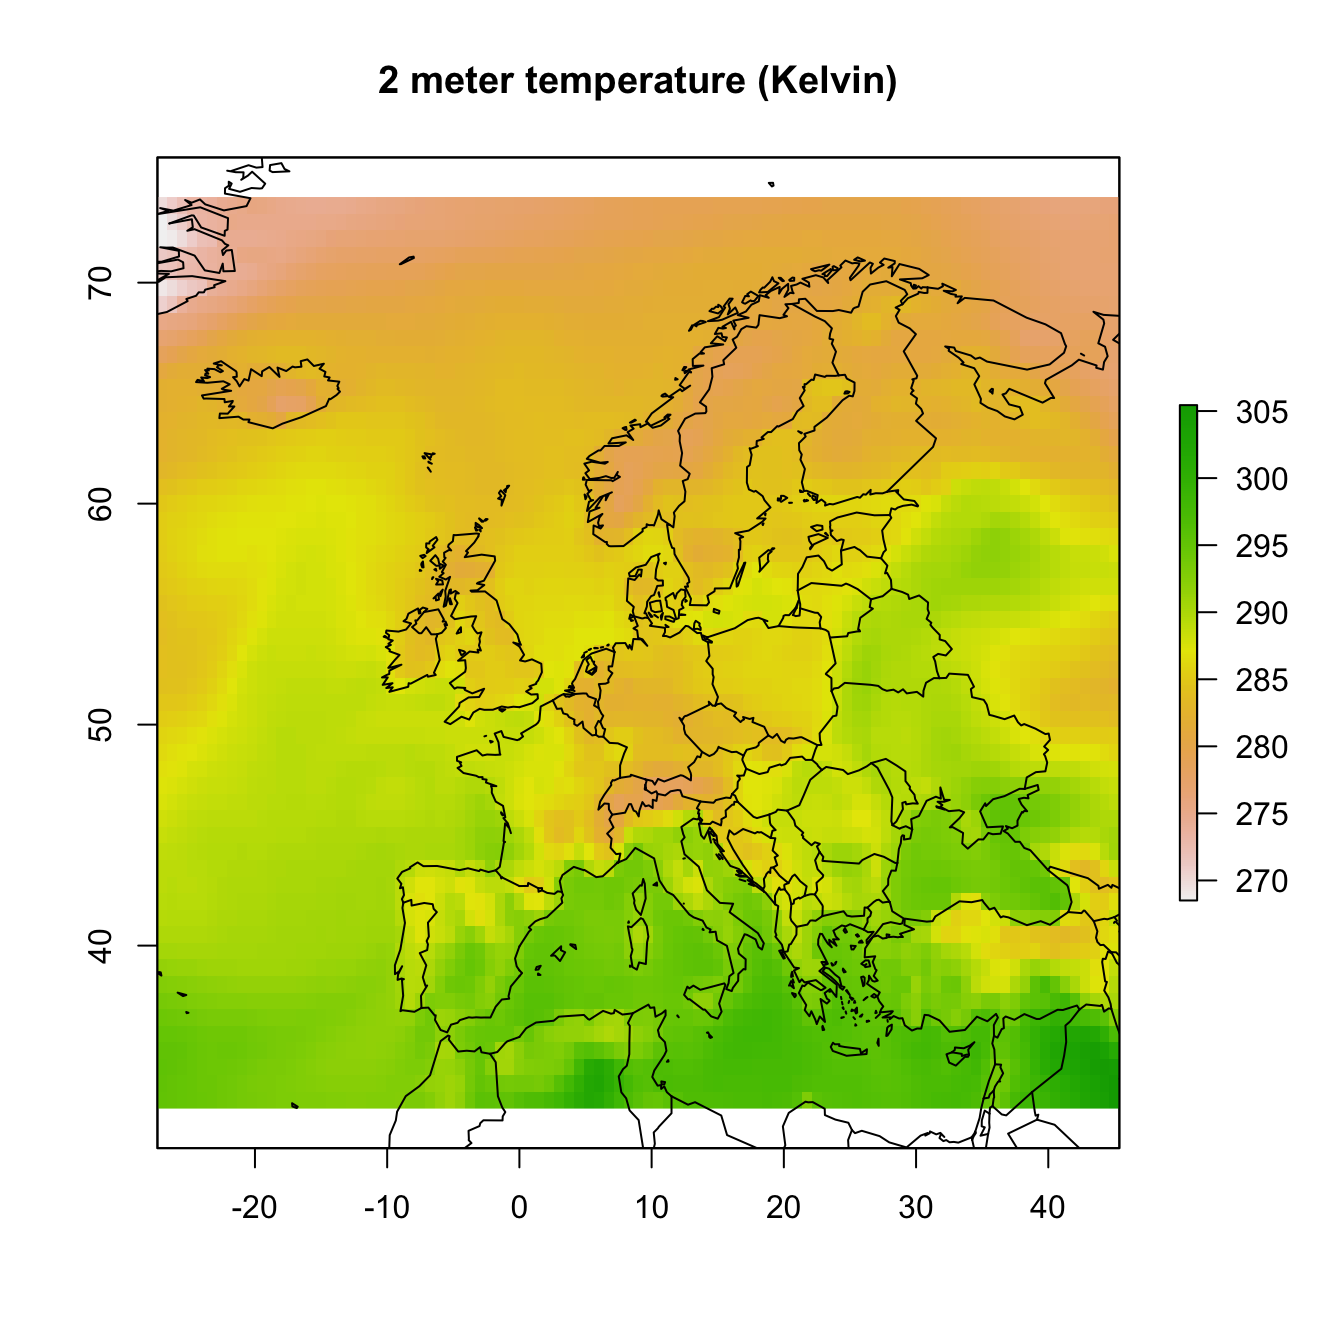
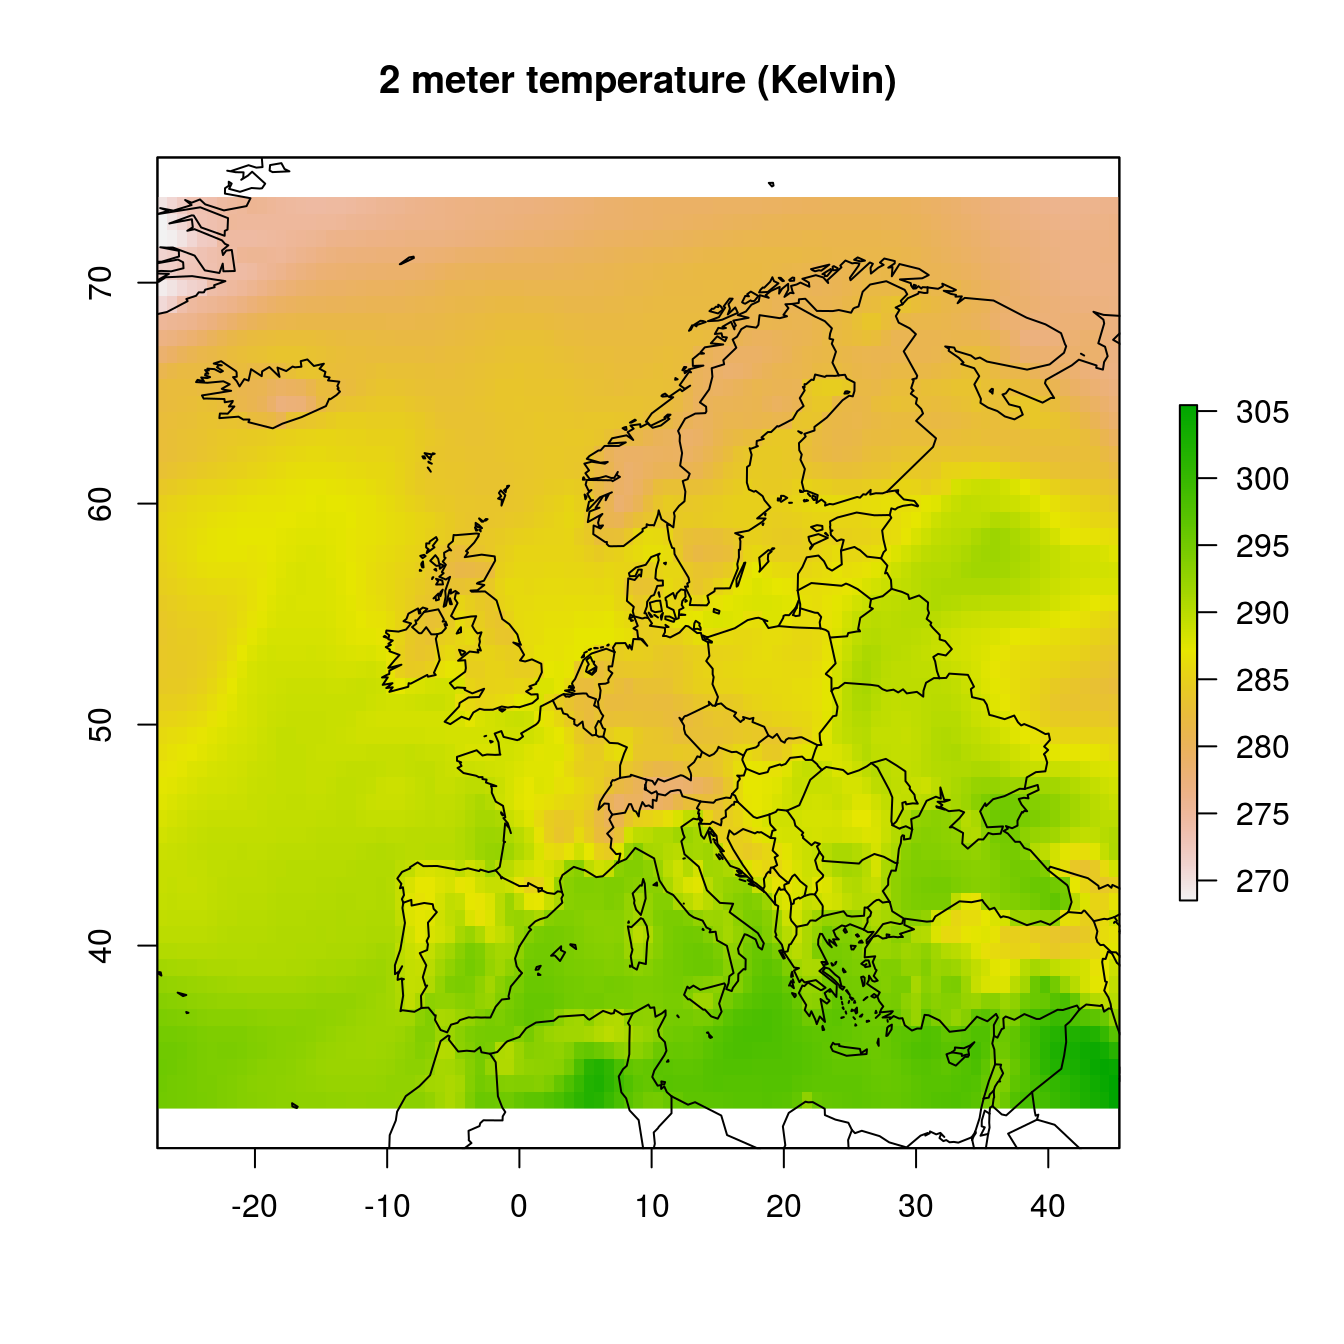
vignette images

diff --git a/docs/articles/ecmwfr_vignette.html b/docs/articles/ecmwfr_vignette.html
@@ -83,7 +83,7 @@
       <h1>ecmwfr</h1>
                         <h4 class="author">Koen Hufkens</h4>
             
-            <h4 class="date">2019-01-02</h4>
+            <h4 class="date">2019-01-03</h4>
       
       <small class="dont-index">Source: <a href="https://github.com/khufkens/ecmwfr/blob/master/vignettes/ecmwfr_vignette.Rmd"><code>vignettes/ecmwfr_vignette.Rmd</code></a></small>
       <div class="hidden name"><code>ecmwfr_vignette.Rmd</code></div>
@@ -110,19 +110,48 @@
 <a class="sourceLine" id="cb1-7" data-line-number="7"></a>
 <a class="sourceLine" id="cb1-8" data-line-number="8"><span class="co"># the output should be the key you provided</span></a>
 <a class="sourceLine" id="cb1-9" data-line-number="9"><span class="co"># "XXXXXXXXXXXXXXXXXXXXXX"</span></a></code></pre></div>
+<p>Before you can download any data you have to make sure to accept the terms and conditions here: <a href="https://apps.ecmwf.int/datasets/licences/general/" class="uri">https://apps.ecmwf.int/datasets/licences/general/</a>.</p>
 </div>
 <div id="listing-ancillary-data" class="section level2">
 <h2 class="hasAnchor">
 <a href="#listing-ancillary-data" class="anchor"></a>Listing Ancillary data</h2>
 <p>You can list ancillary data such as user information, datasets and services using the following calls.</p>
 <div class="sourceCode" id="cb2"><pre class="sourceCode r"><code class="sourceCode r"><a class="sourceLine" id="cb2-1" data-line-number="1"><span class="co"># user info</span></a>
-<a class="sourceLine" id="cb2-2" data-line-number="2"><span class="kw"><a href="../reference/wf_user_info.html">wf_user_info</a></span>(<span class="dt">email =</span> <span class="st">"john.smith@example.com"</span>)</a>
-<a class="sourceLine" id="cb2-3" data-line-number="3"></a>
-<a class="sourceLine" id="cb2-4" data-line-number="4"><span class="co"># services</span></a>
-<a class="sourceLine" id="cb2-5" data-line-number="5"><span class="kw"><a href="../reference/wf_services.html">wf_services</a></span>(<span class="dt">email =</span> <span class="st">"john.smith@example.com"</span>)</a>
-<a class="sourceLine" id="cb2-6" data-line-number="6"></a>
-<a class="sourceLine" id="cb2-7" data-line-number="7"><span class="co"># datasets</span></a>
-<a class="sourceLine" id="cb2-8" data-line-number="8"><span class="kw"><a href="../reference/wf_datasets.html">wf_datasets</a></span>(<span class="dt">email =</span> <span class="st">"john.smith@example.com"</span>)</a></code></pre></div>
+<a class="sourceLine" id="cb2-2" data-line-number="2">user_info &lt;-<span class="st"> </span><span class="kw"><a href="../reference/wf_user_info.html">wf_user_info</a></span>(<span class="dt">email =</span> <span class="st">"khrdev@outlook.com"</span>)</a>
+<a class="sourceLine" id="cb2-3" data-line-number="3"><span class="kw"><a href="https://www.rdocumentation.org/packages/utils/topics/head">head</a></span>(user_info)</a>
+<a class="sourceLine" id="cb2-4" data-line-number="4"><span class="co">#&gt;   first_name code                uid last_name    full_name</span></a>
+<a class="sourceLine" id="cb2-5" data-line-number="5"><span class="co">#&gt; 1       Koen  200 khrdev@outlook.com   Hufkens Koen Hufkens</span></a>
+<a class="sourceLine" id="cb2-6" data-line-number="6"><span class="co">#&gt;                email</span></a>
+<a class="sourceLine" id="cb2-7" data-line-number="7"><span class="co">#&gt; 1 khrdev@outlook.com</span></a>
+<a class="sourceLine" id="cb2-8" data-line-number="8"></a>
+<a class="sourceLine" id="cb2-9" data-line-number="9"><span class="co"># services</span></a>
+<a class="sourceLine" id="cb2-10" data-line-number="10">services &lt;-<span class="st"> </span><span class="kw"><a href="../reference/wf_services.html">wf_services</a></span>(<span class="dt">email =</span> <span class="st">"khrdev@outlook.com"</span>)</a>
+<a class="sourceLine" id="cb2-11" data-line-number="11"><span class="kw"><a href="https://www.rdocumentation.org/packages/utils/topics/head">head</a></span>(services)</a>
+<a class="sourceLine" id="cb2-12" data-line-number="12"><span class="co">#&gt;            name                                             url</span></a>
+<a class="sourceLine" id="cb2-13" data-line-number="13"><span class="co">#&gt; 1      altitude      https://api.ecmwf.int/v1/services/altitude</span></a>
+<a class="sourceLine" id="cb2-14" data-line-number="14"><span class="co">#&gt; 2        cities        https://api.ecmwf.int/v1/services/cities</span></a>
+<a class="sourceLine" id="cb2-15" data-line-number="15"><span class="co">#&gt; 3 dummy_epsgram https://api.ecmwf.int/v1/services/dummy_epsgram</span></a>
+<a class="sourceLine" id="cb2-16" data-line-number="16"><span class="co">#&gt; 4          echo          https://api.ecmwf.int/v1/services/echo</span></a>
+<a class="sourceLine" id="cb2-17" data-line-number="17"><span class="co">#&gt; 5          mars          https://api.ecmwf.int/v1/services/mars</span></a>
+<a class="sourceLine" id="cb2-18" data-line-number="18"><span class="co">#&gt; 6     meteogram     https://api.ecmwf.int/v1/services/meteogram</span></a>
+<a class="sourceLine" id="cb2-19" data-line-number="19"></a>
+<a class="sourceLine" id="cb2-20" data-line-number="20"><span class="co"># datasets</span></a>
+<a class="sourceLine" id="cb2-21" data-line-number="21">datasets &lt;-<span class="st"> </span><span class="kw"><a href="../reference/wf_datasets.html">wf_datasets</a></span>(<span class="dt">email =</span> <span class="st">"khrdev@outlook.com"</span>)</a>
+<a class="sourceLine" id="cb2-22" data-line-number="22"><span class="kw"><a href="https://www.rdocumentation.org/packages/utils/topics/head">head</a></span>(datasets)</a>
+<a class="sourceLine" id="cb2-23" data-line-number="23"><span class="co">#&gt;                    name</span></a>
+<a class="sourceLine" id="cb2-24" data-line-number="24"><span class="co">#&gt; 1          c3s_seasonal</span></a>
+<a class="sourceLine" id="cb2-25" data-line-number="25"><span class="co">#&gt; 2 cams_climate_forcings</span></a>
+<a class="sourceLine" id="cb2-26" data-line-number="26"><span class="co">#&gt; 3           cams_esuite</span></a>
+<a class="sourceLine" id="cb2-27" data-line-number="27"><span class="co">#&gt; 4             cams_gfas</span></a>
+<a class="sourceLine" id="cb2-28" data-line-number="28"><span class="co">#&gt; 5   cams_ghg_inversions</span></a>
+<a class="sourceLine" id="cb2-29" data-line-number="29"><span class="co">#&gt; 6        cams_nrealtime</span></a>
+<a class="sourceLine" id="cb2-30" data-line-number="30"><span class="co">#&gt;                                                       url</span></a>
+<a class="sourceLine" id="cb2-31" data-line-number="31"><span class="co">#&gt; 1          https://api.ecmwf.int/v1/datasets/c3s_seasonal</span></a>
+<a class="sourceLine" id="cb2-32" data-line-number="32"><span class="co">#&gt; 2 https://api.ecmwf.int/v1/datasets/cams_climate_forcings</span></a>
+<a class="sourceLine" id="cb2-33" data-line-number="33"><span class="co">#&gt; 3           https://api.ecmwf.int/v1/datasets/cams_esuite</span></a>
+<a class="sourceLine" id="cb2-34" data-line-number="34"><span class="co">#&gt; 4             https://api.ecmwf.int/v1/datasets/cams_gfas</span></a>
+<a class="sourceLine" id="cb2-35" data-line-number="35"><span class="co">#&gt; 5   https://api.ecmwf.int/v1/datasets/cams_ghg_inversions</span></a>
+<a class="sourceLine" id="cb2-36" data-line-number="36"><span class="co">#&gt; 6        https://api.ecmwf.int/v1/datasets/cams_nrealtime</span></a></code></pre></div>
 </div>
 <div id="data-requests" class="section level2">
 <h2 class="hasAnchor">
@@ -146,12 +175,25 @@
 <a class="sourceLine" id="cb3-16" data-line-number="16"><span class="co"># an example download using fw_request()</span></a>
 <a class="sourceLine" id="cb3-17" data-line-number="17"><span class="co"># using the above request list()</span></a>
 <a class="sourceLine" id="cb3-18" data-line-number="18"><span class="kw"><a href="../reference/wf_request.html">wf_request</a></span>(</a>
-<a class="sourceLine" id="cb3-19" data-line-number="19">  <span class="dt">email =</span> <span class="st">"koenhufkens@gmail.com"</span>,</a>
+<a class="sourceLine" id="cb3-19" data-line-number="19">  <span class="dt">email =</span> <span class="st">"khrdev@outlook.com"</span>,</a>
 <a class="sourceLine" id="cb3-20" data-line-number="20">  <span class="dt">transfer =</span> <span class="ot">TRUE</span>,</a>
 <a class="sourceLine" id="cb3-21" data-line-number="21">  <span class="dt">path =</span> <span class="st">"~"</span>,</a>
 <a class="sourceLine" id="cb3-22" data-line-number="22">  <span class="dt">request =</span> my_request,</a>
 <a class="sourceLine" id="cb3-23" data-line-number="23">  <span class="dt">verbose =</span> <span class="ot">FALSE</span>)</a></code></pre></div>
-<p>This operation might take a while. A progress indicator will keep you informed on the status of your request. The download will expire after a default time out of one hour. You will be informed of where to track your job request on <a href="https://apps.ecmwf.int/webmars/joblist/">the ECMWF website</a>, and provided with a download url which can be sued with the <code>wt_transer()</code> funtion to download the data on a later moment. Keep in mind that you can only have 3 active downloads and 20 job items queued!</p>
+<p>This operation might take a while. A progress indicator will keep you informed on the status of your request. The download will expire after a default time out of one hour. You will be informed of where to track your job request on <a href="https://apps.ecmwf.int/webmars/joblist/">the ECMWF website</a>, and provided with a download url which can be sued with the <code>wt_transfer()</code> funtion to download the data on a later moment. Keep in mind that you can only have 3 active downloads and 20 job items queued!</p>
+<p>If the download is successful you can visualize one layer in the retrieved stack of temperatures at 2 meters using the plotting routine below.</p>
+<div class="sourceCode" id="cb4"><pre class="sourceCode r"><code class="sourceCode r"><a class="sourceLine" id="cb4-1" data-line-number="1">s &lt;-<span class="st"> </span>raster<span class="op">::</span><span class="kw"><a href="https://www.rdocumentation.org/packages/raster/topics/stack">stack</a></span>(<span class="st">"~/tmp.nc"</span>)</a>
+<a class="sourceLine" id="cb4-2" data-line-number="2"><span class="kw"><a href="https://www.rdocumentation.org/packages/base/topics/print">print</a></span>(s)</a>
+<a class="sourceLine" id="cb4-3" data-line-number="3"><span class="co">#&gt; class       : RasterStack </span></a>
+<a class="sourceLine" id="cb4-4" data-line-number="4"><span class="co">#&gt; dimensions  : 55, 97, 5335, 31  (nrow, ncol, ncell, nlayers)</span></a>
+<a class="sourceLine" id="cb4-5" data-line-number="5"><span class="co">#&gt; resolution  : 0.75, 0.75  (x, y)</span></a>
+<a class="sourceLine" id="cb4-6" data-line-number="6"><span class="co">#&gt; extent      : -27.375, 45.375, 32.625, 73.875  (xmin, xmax, ymin, ymax)</span></a>
+<a class="sourceLine" id="cb4-7" data-line-number="7"><span class="co">#&gt; coord. ref. : +proj=longlat +datum=WGS84 </span></a>
+<a class="sourceLine" id="cb4-8" data-line-number="8"><span class="co">#&gt; names       : X2014.07.01.02.00.00, X2014.07.02.02.00.00, X2014.07.03.02.00.00, X2014.07.04.02.00.00, X2014.07.05.02.00.00, X2014.07.06.02.00.00, X2014.07.07.02.00.00, X2014.07.08.02.00.00, X2014.07.09.02.00.00, X2014.07.10.02.00.00, X2014.07.11.02.00.00, X2014.07.12.02.00.00, X2014.07.13.02.00.00, X2014.07.14.02.00.00, X2014.07.15.02.00.00, ...</span></a>
+<a class="sourceLine" id="cb4-9" data-line-number="9"></a>
+<a class="sourceLine" id="cb4-10" data-line-number="10">raster<span class="op">::</span><span class="kw"><a href="https://www.rdocumentation.org/packages/raster/topics/plot">plot</a></span>(s[[<span class="dv">1</span>]], <span class="dt">main =</span> <span class="st">"2 meter temperature (Kelvin)"</span>)</a>
+<a class="sourceLine" id="cb4-11" data-line-number="11">maps<span class="op">::</span><span class="kw"><a href="https://www.rdocumentation.org/packages/maps/topics/map">map</a></span>(<span class="st">"world"</span>, <span class="dt">add =</span> <span class="ot">TRUE</span>)</a></code></pre></div>
+<p><img src="ecmwfr_vignette_files/figure-html/unnamed-chunk-4-1.png" width="672"></p>
 </div>
 </div>
   </div>
